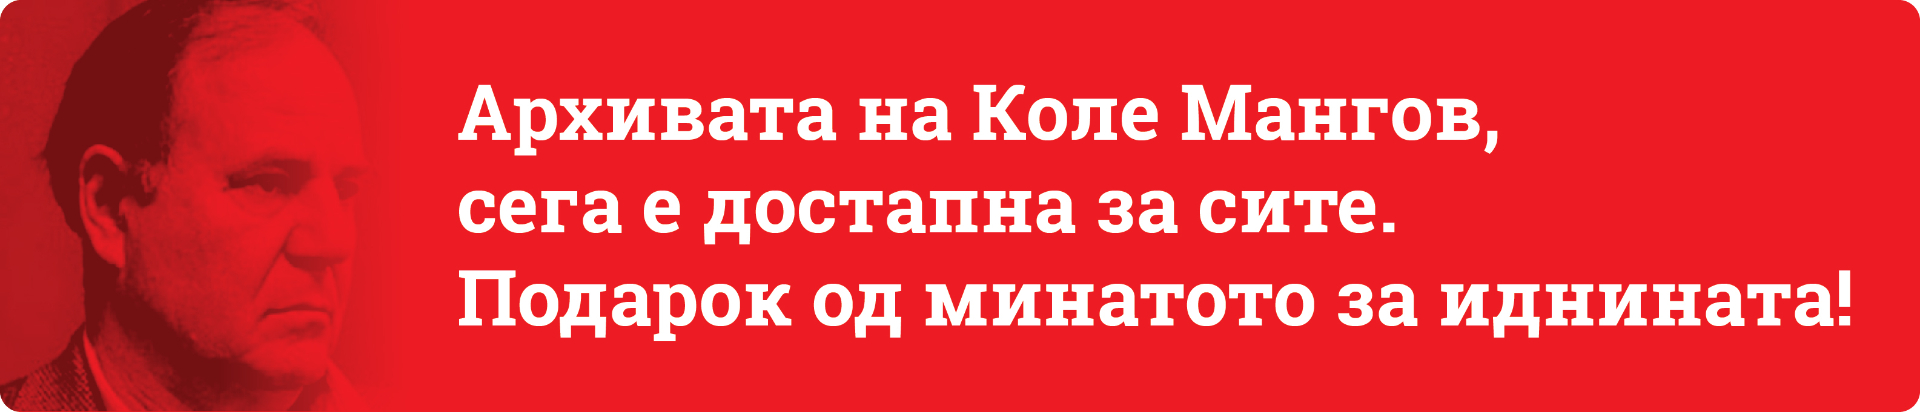
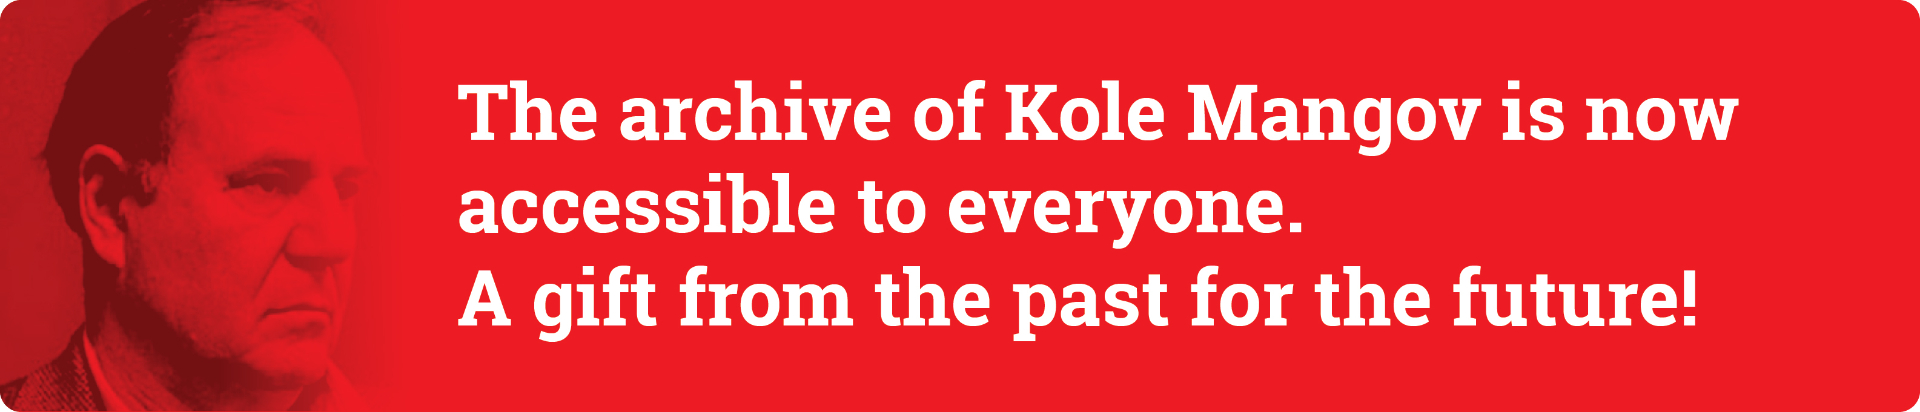
Changes

Changed region(s): [[0.2188, 0.6408, 0.9688, 0.8447], [0.2188, 0.2039, 0.9062, 0.3786], [0.2188, 0.4078, 0.7188, 0.6117]]

diff --git a/src/pages/Library.tsx b/src/pages/Library.tsx
@@ -425,8 +425,8 @@ const Library = () => {
 
         {/* Kole Mangov Banner */}
         <section className="py-6">
-          <div className="container mx-auto px-4">
-            <Link to="/kole" className="block">
+          <div className="container mx-auto px-4 flex justify-center">
+            <Link to="/kole" className="block max-w-2xl w-full">
               <img 
                 src={language === 'mk' ? koleBannerMk : koleBannerEn} 
                 alt={language === 'mk' ? 'Архивата на Коле Мангов' : 'Kole Mangov Archive'}
